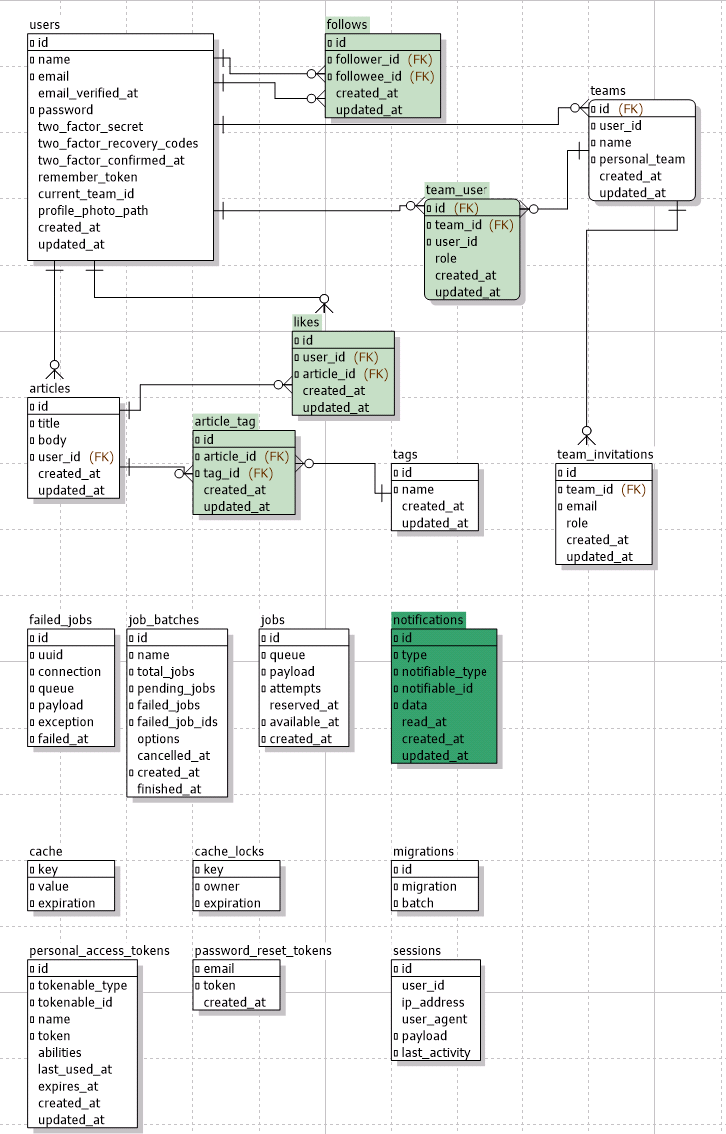
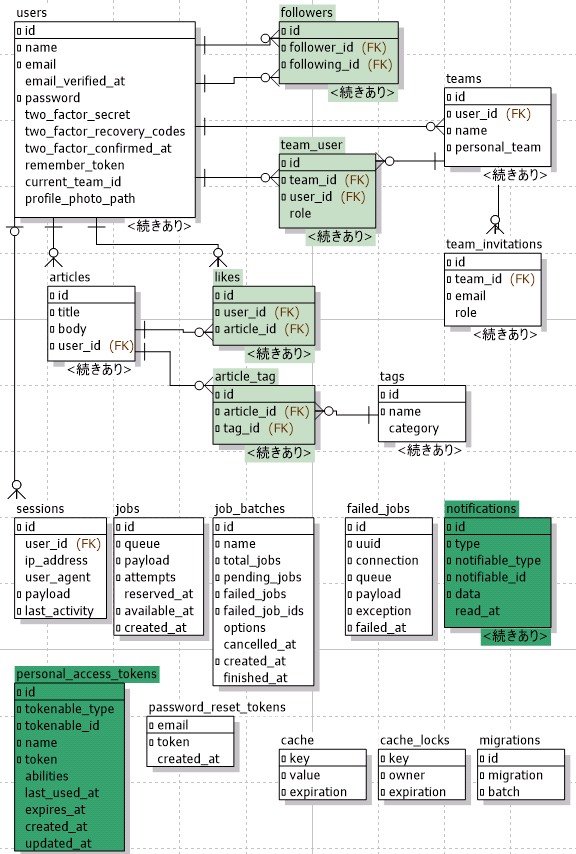
docs: update README.md
(cherry picked from commit 79d662c25f92e5ccd3d03fce3b65b771bbd24149)
(cherry picked from commit e2165dceb70e280506c52e037fd13aef17446b62)

diff --git a/README.md b/README.md
@@ -1,13 +1,16 @@
 # Laravel + Vue3 + 📊Dimensional chart Dashboard template
+
 A template project for an admin panel with a dashboard using 📊dimensional charts, implemented with laravel and vue.
+
 - [Live demo](https://sakanaclub.xsrv.jp/laravel-sports-hp/public/index.php/dashboard-dc-pub?data=covid19-data-2021-02-28)
 
 [![img.png](doc/img/dashboard-covid19.png)](https://sakanaclub.xsrv.jp/laravel-sports-hp/public/index.php/dashboard-dc?data=covid19-data-2021-02-28)
-- [Dimensional chart](http://dc-js.github.io/dc.js/) can be switched and compared with one click, making it easy to analyze in multiple dimensions.
-![image](doc/img/covid19-dc-demo-v1.gif)
 
+- [Dimensional chart](http://dc-js.github.io/dc.js/) can be switched and compared with one click, making it easy to analyze in multiple dimensions.
+  ![image](doc/img/covid19-dc-demo-v1.gif)
 
 ## Features
+
 - Dashboard with [Dimensional chart(dc.js)](http://dc-js.github.io/dc.js/)
   - [Articles Dashboard](https://sakanaclub.xsrv.jp/laravel-sports-hp/public/index.php/dashboard-dc-pub?data=test-article-like)
   - [Dashboard with many more dimensional charts](#link-dc-demo)
@@ -68,19 +71,20 @@ A template project for an admin panel with a dashboard using 📊dimensional cha
   - Two Factor Authentication
   - Browser Sessions
   - Teams Management
-- Articles Management 
+- Articles Management
   - CRUD Operations
   - article like/dislike operations
   - RestFul API
   - Creating data for [a dashboard to analyze article likes](https://sakanaclub.xsrv.jp/laravel-sports-hp/public/index.php/dashboard-dc?data=test-article-like)
-- User Management 
+- User Management
   - user follow/unfollow operations
   - Creating dashboard data to analyze user behavior
 - GraphQL
 
 ## Technology Stack
+
 - backend
-  - [Laravel 12](https://laravel.com/) 
+  - [Laravel 12](https://laravel.com/)
     - [Eloquent ORM](https://laravel.com/docs/12.x/eloquent-relationships)
   - [inertiajs](https://inertiajs.com/)
   - RestFul API
@@ -98,7 +102,7 @@ A template project for an admin panel with a dashboard using 📊dimensional cha
   - [GraphQL](https://graphql.org/) with [Vue Apollo](https://apollo.vuejs.org/)
   - [Google Maps API](https://developers.google.com/maps/documentation/javascript/reference?hl=en)
   - [YouTube API](https://developers.google.com/youtube/v3/docs?hl=en)
-  - test 
+  - test
     - [vitest](https://vitest.dev/)
     - e2e with [playwright](https://playwright.dev/)
   - [Storybook 9](https://storybook.js.org/)
@@ -110,10 +114,13 @@ A detailed explanation of the contents of this repository can be found on the De
 [Read this repository on DeepWiki](https://deepwiki.com/yoshinaga-ken/laravel-vue-dashboard-dc)
 
 ## Database
+
 - [mariadb-schema.sql](database/schema/mariadb-schema.sql)
-  ![er](doc/database/er-mwb.png)
+  - [detail](doc/database/er-mwb.png)
+  - <img src="doc/database/er-a5er.png" alt="er" width="50%">
 - [<img src="https://graphql.org/img/logo.svg" alt="GraphQL Logo" style="width: 1em; height: 1em; vertical-align: middle;">
-GraphQL schema](https://sakanaclub.xsrv.jp/laravel-sports-hp/public/index.php/graphql-playground)
+  GraphQL schema](https://sakanaclub.xsrv.jp/laravel-sports-hp/public/index.php/graphql-playground)
+
 ```mermaid
 erDiagram
     users ||--o{ articles : hasMany
@@ -167,17 +174,18 @@ erDiagram
     }
 
 ```
- 
+
 ## Quick Start
 
 ```bash [Terminal]
-# backend - run web server 
+# backend - run web server
 php artisan serve
 
 # frontend - watch build
 pnpm run dev
 
 ```
+
 Server running on <http://127.0.0.1:8000>
 
 ## Setup
@@ -205,7 +213,6 @@ php artisan migrate
 php artisan db:seed
 ```
 
-
 ## Production
 
 Build a production-ready Vue.js frontend application
@@ -232,6 +239,7 @@ e2e$ pnpm test
 ```
 
 ## Storybook
+
 ```bash
 # Build and launch storybook to see the components in the browser
 pnpm storybook
@@ -240,16 +248,20 @@ pnpm storybook
 pnpm build-storybook
 # Output directory: ./storybook-static/
 
-````
+```
+
 Storybook running on <http://localhost:6007/> [🚀demo](https://sakanaclub.xsrv.jp/laravel-sports-hp/storybook-static/?path=/docs/configure-your-project--docs)
 
 <a id="link-dc-demo"></a>
+
 ## 📊Dimensional chart demo for other fields
+
 [Details chart data](./public/data/README.md)
+
 - [List of missing persons due to Noto Peninsula earthquake @2024/1/1](https://sakanaclub.xsrv.jp/laravel-sports-hp/public/index.php/dashboard-dc-pub?data=ja-quake-noto-safety.csv)
 - [Tokyo gubernatorial election votes by candidate @2024/7/7](https://sakanaclub.xsrv.jp/laravel-sports-hp/public/index.php/dashboard-dc-pub?data=ja-tokyo-gubernatorial-election.csv)
 - 📺🎮Tv Game in Japan
-  - home video game consoles 
+  - home video game consoles
     - [4th generation](https://sakanaclub.xsrv.jp/laravel-sports-hp/public/index.php/dashboard-dc-pub?data=game-gen4.csv)
       - [NES](https://sakanaclub.xsrv.jp/laravel-sports-hp/public/index.php/dashboard-dc-pub?data=game-fc.csv) | [SNES](https://sakanaclub.xsrv.jp/laravel-sports-hp/public/index.php/dashboard-dc-pub?data=game-smc.csv) | [Genesis](https://sakanaclub.xsrv.jp/laravel-sports-hp/public/index.php/dashboard-dc-pub?data=game-smd.csv) | [TurboGrafx-16](https://sakanaclub.xsrv.jp/laravel-sports-hp/public/index.php/dashboard-dc-pub?data=game-pce.csv)
     - [3~5th generatio](https://sakanaclub.xsrv.jp/laravel-sports-hp/public/index.php/dashboard-dc-pub?data=game-gen3.csv)
@@ -323,5 +335,6 @@ Storybook running on <http://localhost:6007/> [🚀demo](https://sakanaclub.xsrv
     - [Number of 👍likes for the 📄article](https://sakanaclub.xsrv.jp/laravel-sports-hp/public/index.php/dashboard-dc-pub?data=test-article-like)
 
 ## Related Repos
+
 - [covid19-dc](https://github.com/yoshinaga-ken/covid19-dc)
 - [nuxt-ui-pro-dashboard-dc](https://github.com/yoshinaga-ken/nuxt-ui-pro-dashboard-dc)
